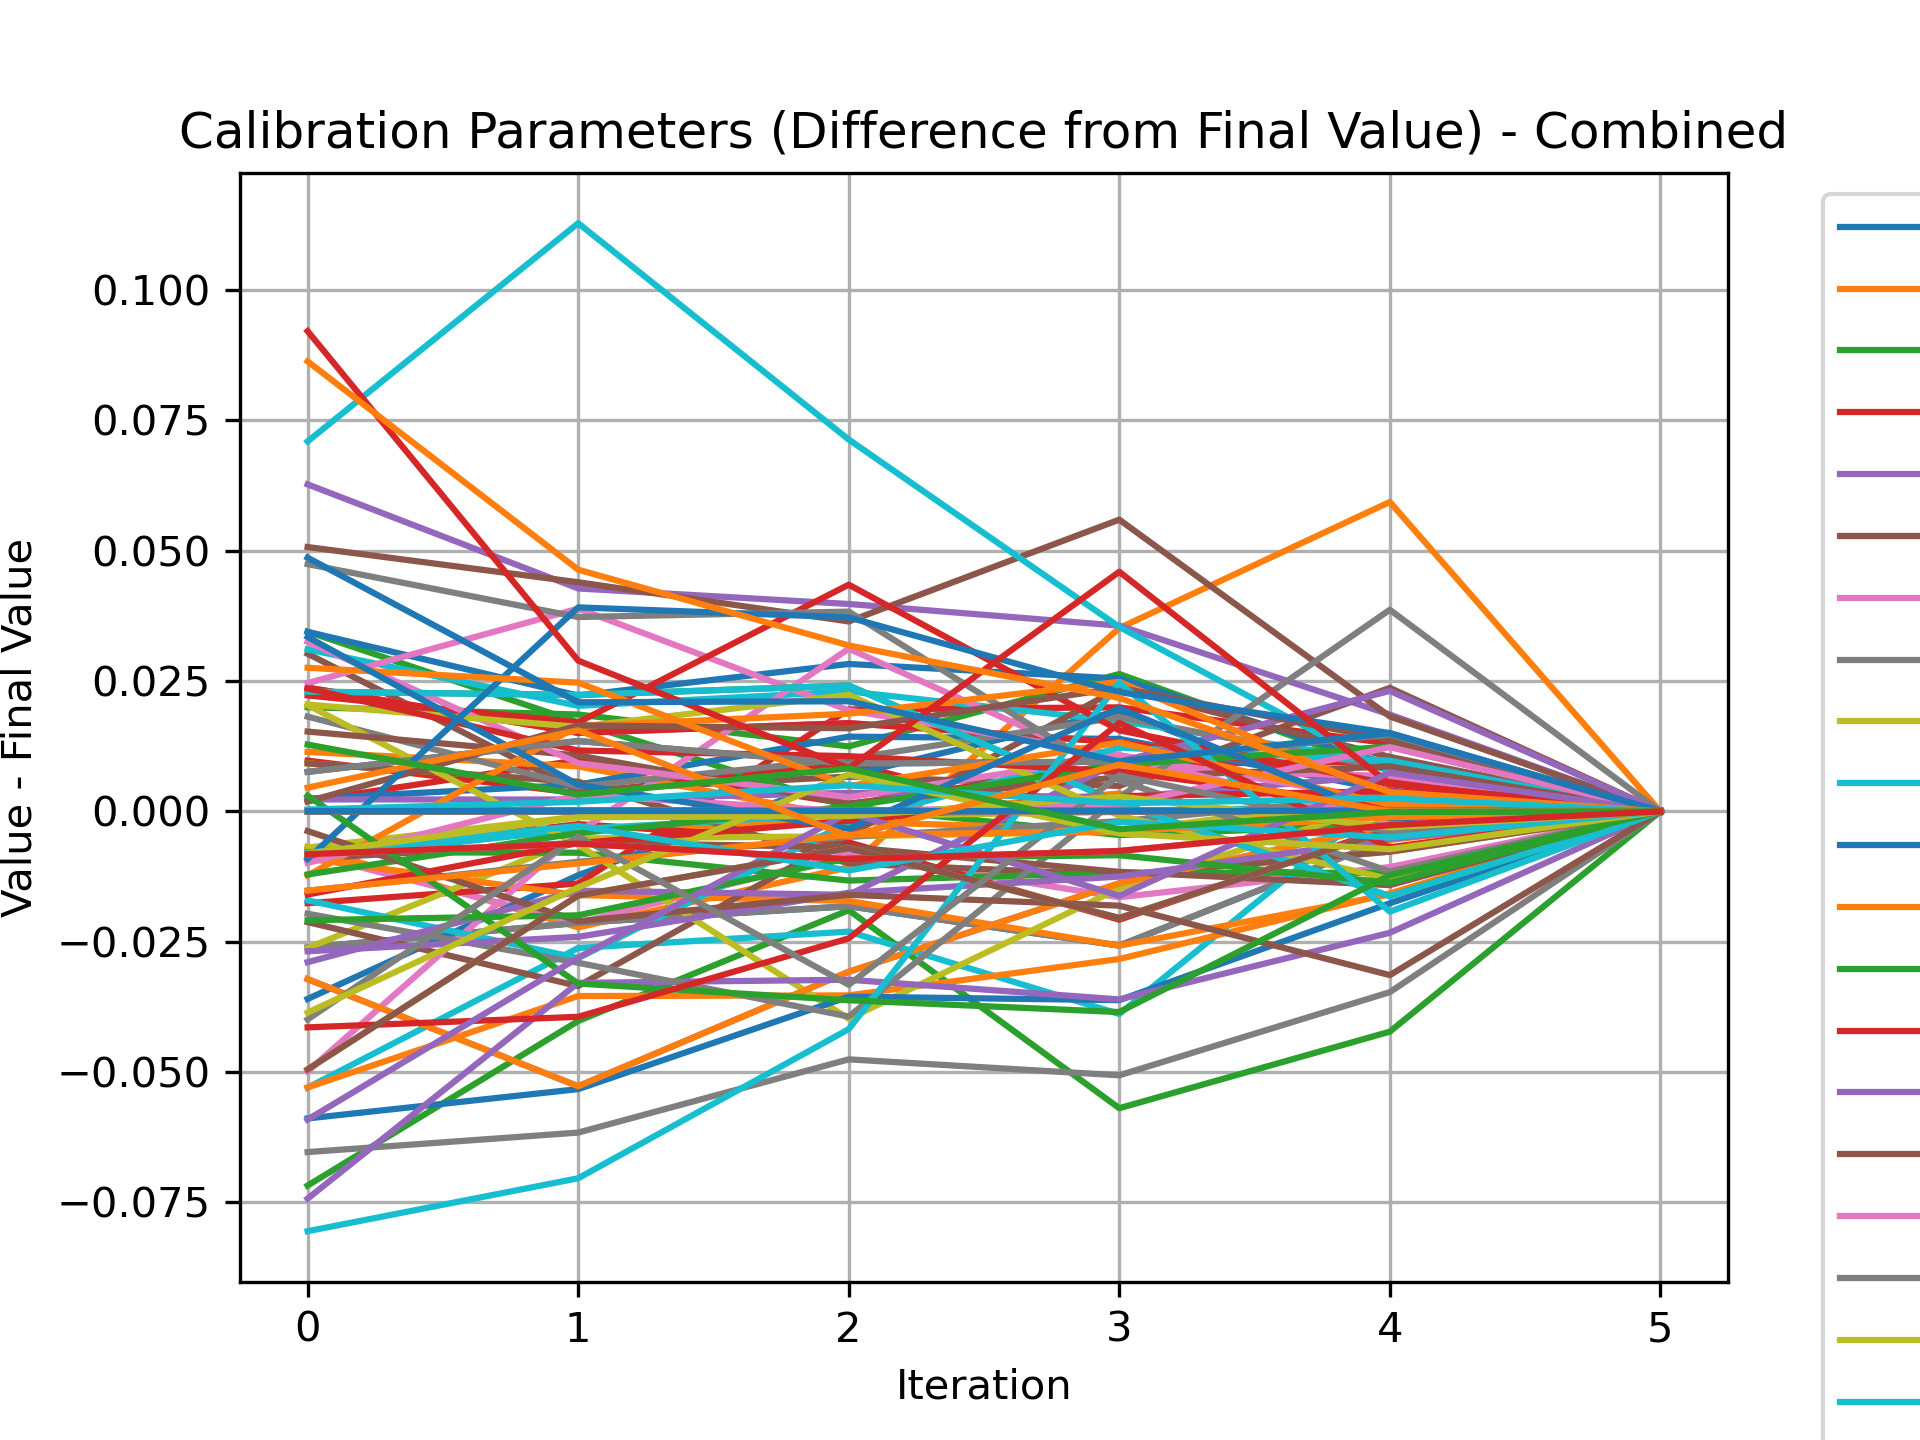
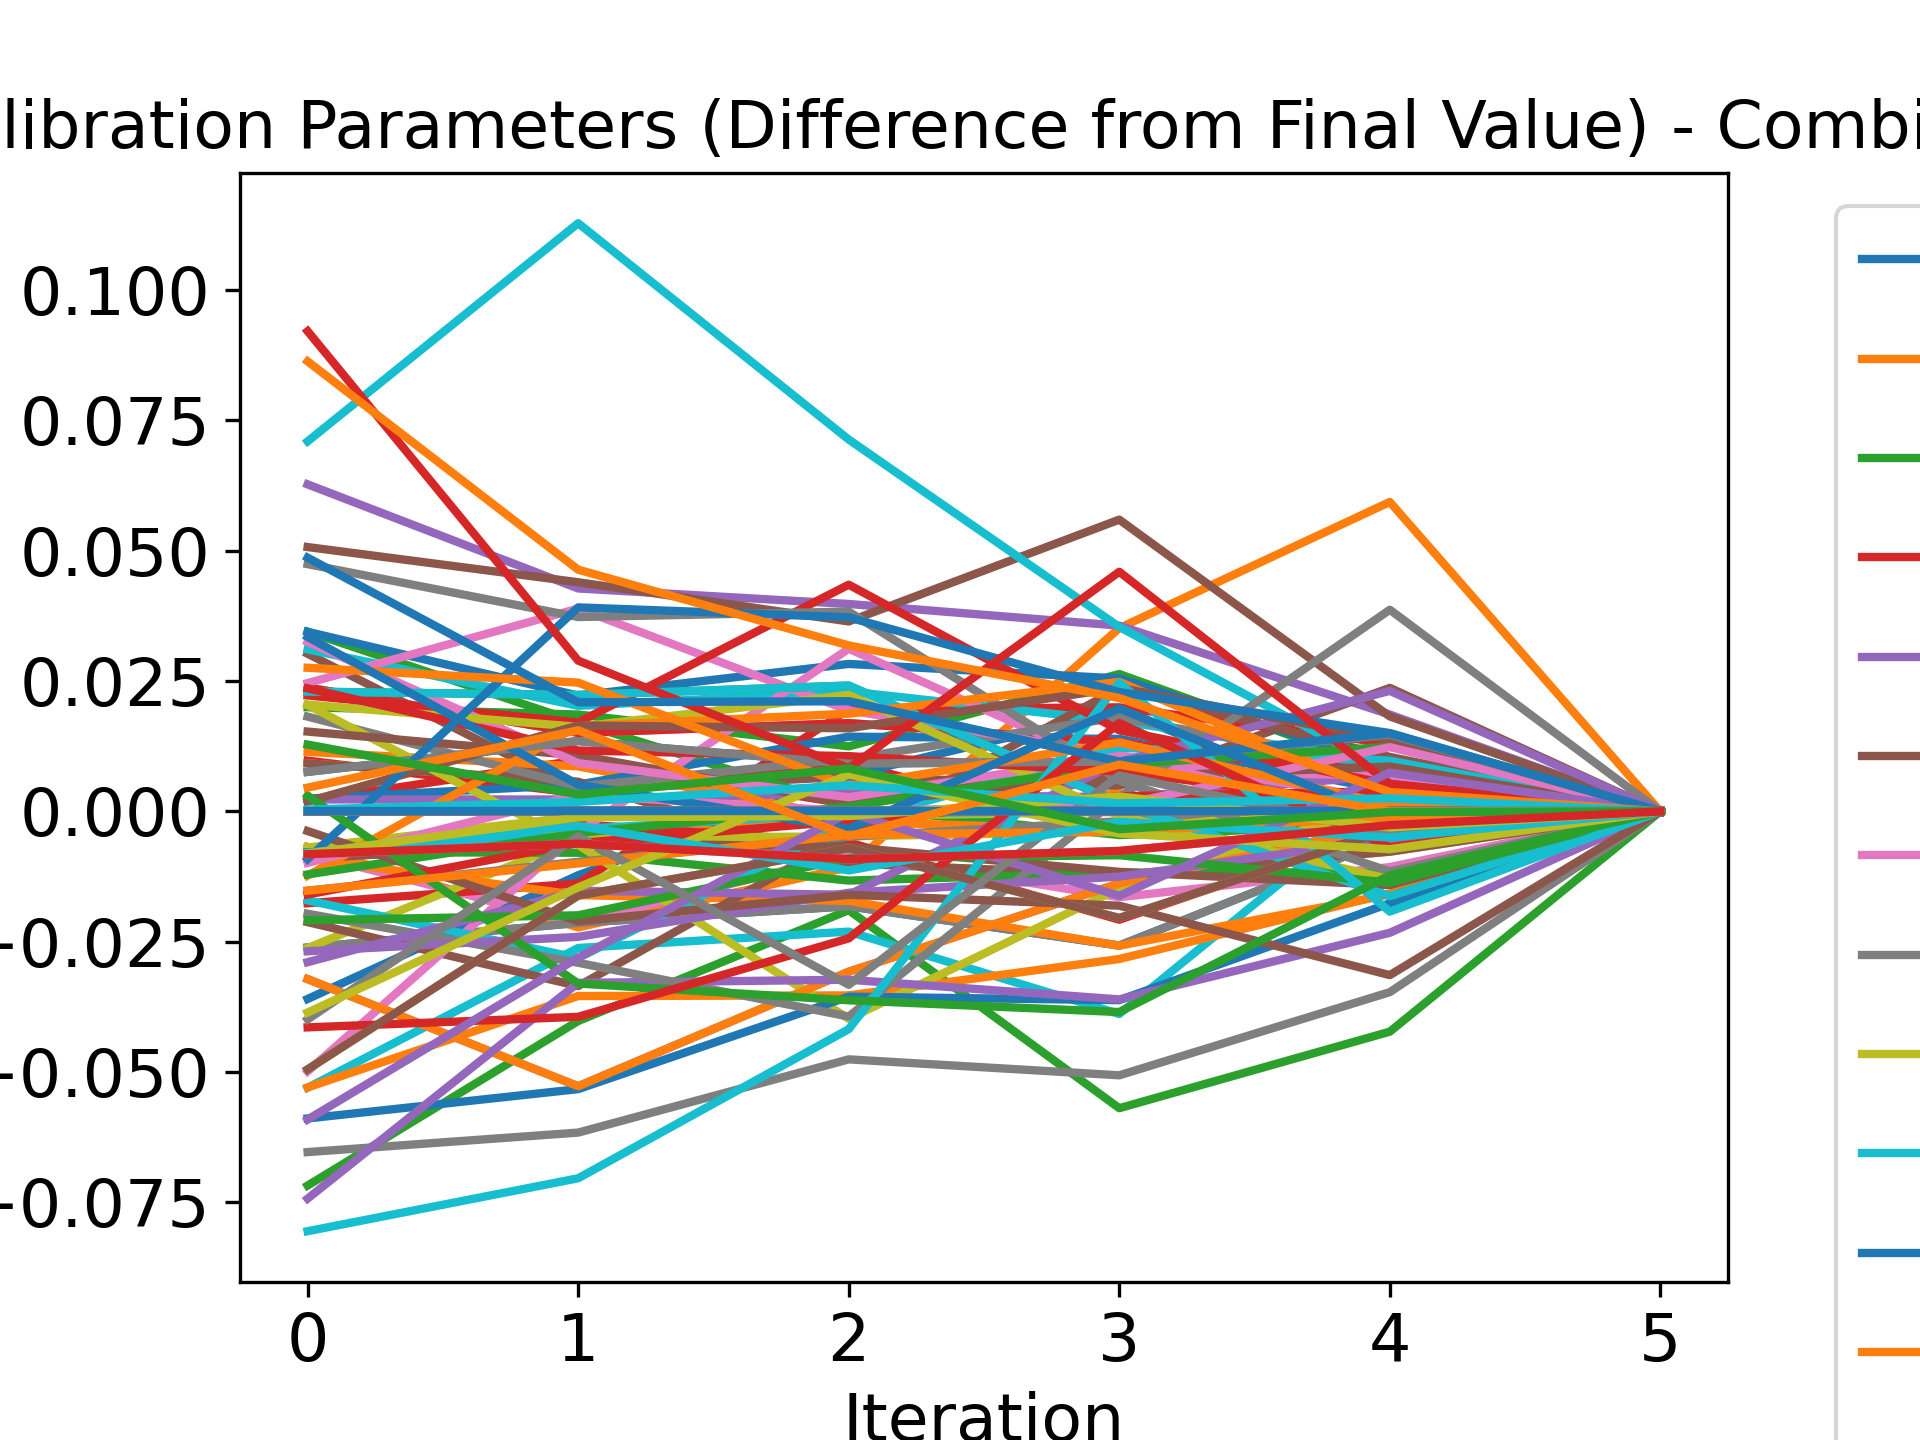
redid some of the plots

diff --git a/miscData/FinalDataCollection/plotCalibrationData.py b/miscData/FinalDataCollection/plotCalibrationData.py
@@ -19,64 +19,45 @@ csv_filenames = [
 ]
 
 # Load dial indicator validation data
-def load_dial_indicator_data(filename='dialIndicatorFinalData.txt'):
+def load_dial_indicator_data(filename):
     """Load and process dial indicator validation data"""
     try:
-        # Read the dial indicator data
         dial_data = {'backRight': [], 'backLeft': [], 'frontLeft': [], 'frontRight': []}
         current_position = None
-        
         with open(filename, 'r') as f:
             for line in f:
                 line = line.strip()
                 if line and not line.startswith('//') and ',' in line:
-                    # Split by comma and take values
                     parts = line.split(',')
                     if len(parts) >= 3:
                         try:
-                            x, y, z = float(parts[0]) / 1000.0, float(parts[1]) / 1000.0, float(parts[2]) / 1000.0  # Convert mm to m
-                            
-                            # Check if there's a position label
+                            x, y, z = float(parts[0]) / 1000.0, float(parts[1]) / 1000.0, float(parts[2]) / 1000.0
                             if len(parts) > 3 and parts[3].strip():
                                 current_position = parts[3].strip()
-                            
-                            # Add to appropriate position group
                             if current_position and current_position in dial_data:
                                 dial_data[current_position].append([x, y, z])
                         except ValueError:
                             continue
-        
-        # Calculate errors for each position
         position_errors = {}
         all_errors = []
-        
         for pos, data in dial_data.items():
             if data:
                 data_array = np.array(data)
                 errors = np.sqrt(np.sum(data_array**2, axis=1))
                 position_errors[pos] = np.mean(errors)
                 all_errors.extend(errors)
-                print(f"Dial indicator validation - {pos} Avg Position Error: {position_errors[pos]:.6f} m")
-        
         if all_errors:
             overall_avg_position_error = np.mean(all_errors)
-            # For orientation error, we'll use a simple approximation
-            avg_orientation_error = np.std(all_errors) * 0.1  # Rough approximation
-            
-            print(f"Dial indicator validation - Overall Avg Position Error: {overall_avg_position_error:.6f} m")
-            print(f"Dial indicator validation - Est Orientation Error: {avg_orientation_error:.6f} rad")
-            
+            avg_orientation_error = np.std(all_errors) * 0.1
             return overall_avg_position_error, avg_orientation_error, position_errors
         else:
-            print("Warning: No valid dial indicator data found")
             return None, None, {}
-            
     except FileNotFoundError:
-        print(f"Warning: {filename} not found for validation data")
         return None, None, {}
 
-# Load validation data
-validation_pos_error, validation_orient_error, position_specific_errors = load_dial_indicator_data()
+# Load initial and final dial indicator data
+initial_pos_error, initial_orient_error, initial_position_errors = load_dial_indicator_data('dialIndicatorInitialData.txt')
+final_pos_error, final_orient_error, final_position_errors = load_dial_indicator_data('dialIndicatorFinalData.txt')
 
 # Load all CSV files
 dataframes = {}
@@ -98,15 +79,18 @@ base_name = "combined_calibration"
 colors = plt.cm.tab10(np.linspace(0, 1, len(dataframes)))
 file_colors = {filename: colors[i] for i, filename in enumerate(dataframes.keys())}
 
+# --- For all plots, increase legend font size ---
+# Example for one plot, apply to all:
+# plt.legend(fontsize=14)  # Change from default to larger font
+
 # Plot position error values (logarithmic y-axis)
 plt.figure()
 min_vals = []
-
 counter = 1
 for filename, df in dataframes.items():
     label_base = os.path.splitext(filename)[0]
     color = file_colors[filename]
-    plt.plot(df['Position Error'], label=f'Trial {counter}', color=color)
+    plt.plot(df['Position Error'], label=f'Trial {counter}', color=color, linewidth=2)
     
     # Collect min values for y-axis scaling
     pos_errors = df['Position Error']
@@ -123,15 +107,17 @@ if validation_pos_error is not None:
 # Add position-specific validation lines
 position_colors = {'backRight': 'orange', 'backLeft': 'purple', 'frontLeft': 'green', 'frontRight': 'brown'}
 for pos, error in position_specific_errors.items():
-    plt.axhline(y=error, color=position_colors.get(pos, 'gray'), linestyle=':', linewidth=1.5,
+    plt.axhline(y=error, color=position_colors.get(pos, 'gray'), linestyle=':', linewidth=2,
                 label=f'Dial {pos}: {error:.6f}m')'''
 
 plt.yscale('log')
-plt.title('Position Error Values')
-plt.xlabel('Iteration')
-plt.ylabel('Position Error [meters]')
-plt.legend()
+plt.title('Position Error Values', fontsize=16)
+plt.xlabel('Iteration', fontsize=16)
+plt.ylabel('Position Error [meters]', fontsize=16)
+plt.legend(fontsize=14)
 plt.grid(True, which='both', axis='y')
+plt.xticks(fontsize=16)
+plt.yticks(fontsize=16)
 
 # Set y-axis limits based on minimum values from all datasets
 if min_vals:
@@ -150,41 +136,31 @@ plt.savefig(f"{base_name}_position_error_log.png", dpi=300)
 
 # Plot position error values (linear y-axis)
 plt.figure()
-
 counter = 1
 for filename, df in dataframes.items():
     label_base = os.path.splitext(filename)[0]
     color = file_colors[filename]
-    plt.plot(df['Position Error'], label=f'Trial {counter}', color=color)
+    plt.plot(df['Position Error'], label=f'Trial {counter}', color=color, linewidth=2)
     counter += 1
 
-'''# Add validation lines if available
-if validation_pos_error is not None:
-    plt.axhline(y=validation_pos_error, color='red', linestyle='--', linewidth=2, 
-                label=f'Dial Indicator Overall: {validation_pos_error:.6f}m')
-
-# Add position-specific validation lines
-for pos, error in position_specific_errors.items():
-    plt.axhline(y=error, color=position_colors.get(pos, 'gray'), linestyle=':', linewidth=1.5,
-                label=f'Dial {pos}: {error:.6f}m')'''
-
-plt.title('Position Error Values')
-plt.xlabel('Iteration')
-plt.ylabel('Position Error [meters]')
-plt.legend()
-plt.grid(True)
+plt.title('Position Error Values', fontsize=16)
+plt.xlabel('Iteration', fontsize=16)
+plt.ylabel('Position Error [meters]', fontsize=16)
+plt.legend(fontsize=14)
+plt.grid(False)
+plt.xticks(fontsize=16)
+plt.yticks(fontsize=16)
 plt.tight_layout()
 plt.savefig(f"{base_name}_position_error_linear.png", dpi=300)
 
 # Plot orientation error values (logarithmic y-axis)
 plt.figure()
 min_vals = []
-
 counter = 1
 for filename, df in dataframes.items():
     label_base = os.path.splitext(filename)[0]
     color = file_colors[filename]
-    plt.plot(df['Orientation Error'], label=f'Trial {counter}', color=color)
+    plt.plot(df['Orientation Error'], label=f'Trial {counter}', color=color, linewidth=2)
     
     # Collect min values for y-axis scaling
     orient_errors = df['Orientation Error']
@@ -199,11 +175,13 @@ if validation_orient_error is not None:
                 label=f'Estimated Validation: {validation_orient_error:.6f}rad')'''
 
 plt.yscale('log')
-plt.title('Orientation Error Values')
-plt.xlabel('Iteration')
-plt.ylabel('Orientation Error [radians]')
-plt.legend()
+plt.title('Orientation Error Values', fontsize=16)
+plt.xlabel('Iteration', fontsize=16)
+plt.ylabel('Orientation Error [radians]', fontsize=16)
+plt.legend(fontsize=14)
 plt.grid(True, which='both', axis='y')
+plt.xticks(fontsize=16)
+plt.yticks(fontsize=16)
 
 # Set y-axis limits based on minimum values from all datasets
 if min_vals:
@@ -222,24 +200,20 @@ plt.savefig(f"{base_name}_orientation_error_log.png", dpi=300)
 
 # Plot orientation error values (linear y-axis)
 plt.figure()
-
 counter = 1
 for filename, df in dataframes.items():
     label_base = os.path.splitext(filename)[0]
     color = file_colors[filename]
-    plt.plot(df['Orientation Error'], label=f'Trial {counter}', color=color)
+    plt.plot(df['Orientation Error'], label=f'Trial {counter}', color=color, linewidth=2)
     counter += 1
 
-'''# Add validation line if available
-if validation_orient_error is not None:
-    plt.axhline(y=validation_orient_error, color='red', linestyle='--', linewidth=2, 
-                label=f'Estimated Validation: {validation_orient_error:.6f}rad')'''
-
-plt.title('Orientation Error Values')
-plt.xlabel('Iteration')
-plt.ylabel('Orientation Error [radians]')
-plt.legend()
-plt.grid(True)
+plt.title('Orientation Error Values', fontsize=16)
+plt.xlabel('Iteration', fontsize=16)
+plt.ylabel('Orientation Error [radians]', fontsize=16)
+plt.legend(fontsize=14)
+plt.grid(False)
+plt.xticks(fontsize=16)
+plt.yticks(fontsize=16)
 plt.tight_layout()
 plt.savefig(f"{base_name}_orientation_error_linear.png", dpi=300)
 
@@ -253,13 +227,15 @@ for filename, df in dataframes.items():
     for col in pose_cols:
         if col in df.columns:
             diff = df[col] - df[col].iloc[-1]
-            plt.plot(diff, label=f'{label_base} - {col}')
+            plt.plot(diff, label=f'{label_base} - {col}', linewidth=2)
 
-plt.title('Estimated Target Pose (Difference from Final Value) - Combined')
-plt.xlabel('Iteration')
-plt.ylabel('Value - Final Value [meters/radians]')
-plt.legend()
-plt.grid(True)
+plt.title('Estimated Target Pose (Difference from Final Value) - Combined', fontsize=16)
+plt.xlabel('Iteration', fontsize=16)
+plt.ylabel('Value - Final Value [meters/radians]', fontsize=16)
+plt.legend(fontsize=14)
+plt.grid(False)
+plt.xticks(fontsize=16)
+plt.yticks(fontsize=16)
 plt.tight_layout()
 plt.savefig(f"{base_name}_est_target_pose.png", dpi=300)
 
@@ -270,16 +246,17 @@ for filename, df in dataframes.items():
     calib_cols = [col for col in df.columns if 'Estimated' in col and col not in pose_cols]
     for col in calib_cols:
         diff = df[col] - df[col].iloc[-1]
-        plt.plot(diff, label=f'{label_base} - {col}')
+        plt.plot(diff, label=f'{label_base} - {col}', linewidth=2)
 
-plt.title('Calibration Parameters (Difference from Final Value) - Combined')
-plt.xlabel('Iteration')
-plt.ylabel('Value - Final Value')
-plt.legend(bbox_to_anchor=(1.05, 1), loc='upper left')
-plt.grid(True)
+plt.title('Calibration Parameters (Difference from Final Value) - Combined', fontsize=16)
+plt.xlabel('Iteration', fontsize=16)
+plt.ylabel('Value - Final Value', fontsize=16)
+plt.legend(bbox_to_anchor=(1.05, 1), loc='upper left', fontsize=16)
+plt.grid(False)
+plt.xticks(fontsize=16)
+plt.yticks(fontsize=16)
 plt.tight_layout()
 plt.savefig(f"{base_name}_calib_params.png", dpi=300)
-
 
 plt.figure(figsize=(10, 6))
 
@@ -293,13 +270,11 @@ for filename, df in dataframes.items():
     if 'Position Error' in df.columns and len(df) > 0:
         initial_errors.append(df['Position Error'].iloc[0])
 
+print("Camera Initial Errors:", np.mean(initial_errors))  # Print initial errors
+
 if initial_errors:
     box_data.append(initial_errors)
-    box_labels.append('Initial Position\nErrors')
-    # Print statistics
-    print(f"\nInitial Position Errors Statistics:")
-    print(f"  Mean: {np.mean(initial_errors):.6f} m")
-    print(f"  Std:  {np.std(initial_errors):.6f} m")
+    box_labels.append('Camera Initial\nError')
 
 # 2. Final position errors from calibration files  
 final_errors = []
@@ -307,52 +282,59 @@ for filename, df in dataframes.items():
     if 'Position Error' in df.columns and len(df) > 0:
         final_errors.append(df['Position Error'].iloc[-1])
 
+print("Camera Final Errors:", np.mean(final_errors))  # Print final errors
+
 if final_errors:
     box_data.append(final_errors)
-    box_labels.append('Final Position\nErrors')
-    # Print statistics
-    print(f"\nFinal Position Errors Statistics:")
-    print(f"  Mean: {np.mean(final_errors):.6f} m")
-    print(f"  Std:  {np.std(final_errors):.6f} m")
+    box_labels.append('Camera Final\nError')
 
-# 3. Dial indicator validation data
-if validation_pos_error is not None:
-    # Use the individual position errors from each corner
-    dial_errors = list(position_specific_errors.values())
-    if dial_errors:
-        box_data.append(dial_errors)
-        box_labels.append('Dial Indicator\nValidation')
-        # Print statistics
-        print(f"\nDial Indicator Validation Statistics:")
-        print(f"  Mean: {np.mean(dial_errors):.6f} m")
-        print(f"  Std:  {np.std(dial_errors):.6f} m")
+# 3. Initial dial indicator data
+if initial_pos_error is not None:
+    dial_initial_errors = list(initial_position_errors.values())
+    print("Dial Indicator Initial Errors:", np.mean(dial_initial_errors))  # Print dial initial errors
+    if dial_initial_errors:
+        box_data.append(dial_initial_errors)
+        box_labels.append('Dial Indicator\nInitial Error')
+
+# 4. Final dial indicator data
+if final_pos_error is not None:
+    dial_final_errors = list(final_position_errors.values())
+    print("Dial Indicator Final Errors:", np.mean(dial_final_errors))  # Print dial final errors
+    if dial_final_errors:
+        box_data.append(dial_final_errors)
+        box_labels.append('Dial Indicator\nFinal Error')
 
 # Create the box plot
-if len(box_data) == 3:
-    plt.boxplot(box_data, labels=box_labels)
-    plt.yscale('log')
-    plt.title('Position Error Comparison')
-    plt.ylabel('Position Error [meters]')
-    plt.grid(True, which='both', axis='y', alpha=0.3)
-    
-    # Add more detailed y-axis labels
-    ax = plt.gca()
-    ax.yaxis.set_major_locator(LogLocator(base=10.0, numticks=12))
-    ax.yaxis.set_minor_locator(LogLocator(base=10.0, subs=[2, 3, 4, 5, 6, 7, 8, 9], numticks=100))
-    ax.yaxis.set_major_formatter(FormatStrFormatter('%.1e'))
-    ax.yaxis.set_minor_formatter(FormatStrFormatter('%.0e'))  # Changed from '' to '%.0e'
-    ax.tick_params(axis='y', which='major', labelsize=10)
-    ax.tick_params(axis='y', which='minor', length=4, labelsize=8)  # Added labelsize for minor ticks
-    
-    plt.tight_layout()
-    plt.savefig(f"{base_name}_simple_boxplot.png", dpi=300)
+if len(box_data) >= 4:
+    fig, ax = plt.subplots(figsize=(8, 4.5), constrained_layout=True)
+    box = ax.boxplot(
+        box_data,
+        labels=box_labels,
+        widths=0.7,
+        boxprops=dict(linewidth=1.5),
+        whiskerprops=dict(linewidth=1.5),
+        capprops=dict(linewidth=1.5),
+        medianprops=dict(linewidth=1.5),
+        patch_artist=True
+    )
+    # Shade the boxes
+    colors = ["#6EB5F8"]  # Example pastel colors
+    for patch in box['boxes']:
+        patch.set_facecolor(colors[0])
+        patch.set_alpha(0.8)
 
-# Print improvement statistics if we have both initial and final data
-if initial_errors and final_errors:
-    improvement_factor = np.mean(initial_errors) / np.mean(final_errors)
-    print(f"\nCalibration Improvement:")
-    print(f"  Mean error reduction factor: {improvement_factor:.2f}x")
-    print(f"  Mean error reduction: {(1 - 1/improvement_factor)*100:.1f}%")
+    ax.set_yscale('log')
+    ax.set_title('Position Error Comparison', fontsize=22)
+    ax.set_ylabel('Position Error [meters]', fontsize=18)
+    ax.grid(True, which='both', axis='y', alpha=0.3)
+    ax.set_xticklabels(box_labels, fontsize=14, rotation=10)
+    ax.yaxis.set_major_locator(LogLocator(base=10.0, numticks=12))
+    ax.yaxis.set_minor_locator(LogLocator(base=10.0, subs=[2, 4, 6, 8], numticks=100))
+    ax.yaxis.set_major_formatter(FormatStrFormatter('%.1e'))
+    ax.yaxis.set_minor_formatter(FormatStrFormatter('%.0e'))
+    ax.tick_params(axis='y', which='major', labelsize=14)
+    ax.tick_params(axis='y', which='minor', length=4, labelsize=14)
+    plt.savefig(f"{base_name}_simple_boxplot.png", dpi=300)
 
 plt.show()
 
